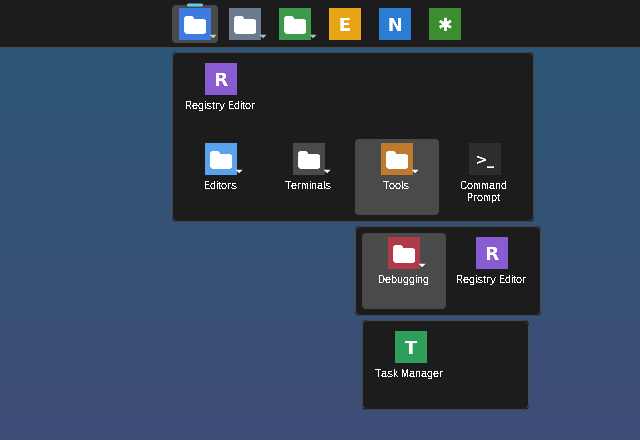
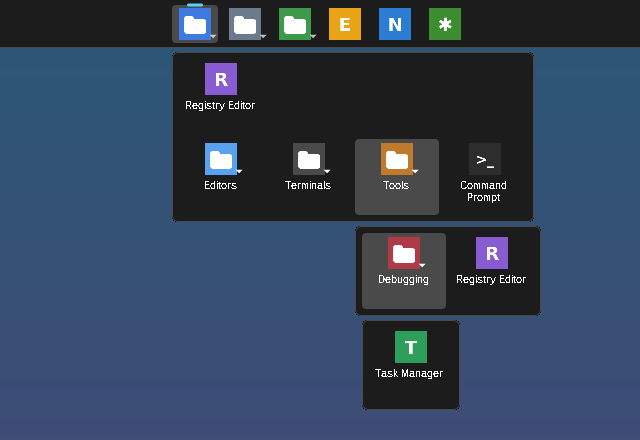
Vertical flyout strips for side bars, horizontal for top and bottom
A category flyout now runs the same way as its bar: from a top or bottom
bar it is a horizontal strip (App tiles per row, wrapping into rows);
from a left or right bar it is a vertical strip, one column top to
bottom, wrapping into another column only when it would be taller than
the screen. Further levels open beside it, lined up with their tile, so
the pointer goes straight across into them. Subcategories still sit
nearest where their flyouts open. README, screenshots and the edges GIF
updated.

Claude-Session: https://claude.ai/code/session_01GLkhGjuGndshja5QFx3dbt

Changed region(s): [[0.7188, 0.7091, 0.8438, 0.9455]]

diff --git a/src/win/flyout.rs b/src/win/flyout.rs
@@ -19,7 +19,7 @@ use super::canvas::{self, Canvas};
 use super::strip;
 use super::ui::{self, scale, wide};
 use crate::appearance::{Appearance, Colors};
-use crate::striplayout::{self, Edge, Hit};
+use crate::striplayout::{self, Hit};
 use resvg::tiny_skia::Pixmap;
 use std::cell::RefCell;
 use std::collections::HashMap;
@@ -354,6 +354,12 @@ fn rebuild(idx: usize) {
             rows: s.catalog.apps.iter().map(|a| (a.id.clone(), a.name.clone())).collect(),
         }),
     });
+    let mon = unsafe {
+        let m = MonitorFromPoint(POINT { x: anchor_rc.left, y: anchor_rc.top }, MONITOR_DEFAULTTONEAREST);
+        let mut mi = MONITORINFO { cbSize: std::mem::size_of::<MONITORINFO>() as u32, ..Default::default() };
+        let _ = GetMonitorInfoW(m, &mut mi);
+        mi.rcMonitor
+    };
     let Some(content) = content else {
         if idx == 0 {
             close()
@@ -377,24 +383,30 @@ fn rebuild(idx: usize) {
             let tile = (s(84), s(76));
             let tm = s(2);
             let cols = (look.flyout_columns as usize).max(1);
-            // Subcategories first, so they sit in the top row, nearest to
-            // the flyouts they open above.
+            // Subcategories first, so they sit nearest the flyouts they open.
             let items: Vec<(Elem, String, String)> = content
                 .subs
                 .iter()
                 .map(|(id, name)| (Elem::Sub(*id), name.clone(), format!("cat:{id}")))
                 .chain(content.tiles.iter().map(|(id, name)| (Elem::Tile(id.clone()), name.clone(), id.clone())))
                 .collect();
-            let tiles_w = cols.min(items.len().max(1)) as i32 * (tile.0 + 2 * tm);
-            inner_w = tiles_w.max(canvas::measure("No apps in this category", font).0 + s(16));
+            // A horizontal strip for a top or bottom bar, a vertical one for
+            // a side bar (see `flyout_cells`).
             let n = items.len();
-            // The subcategories (first) sit in the row nearest where their
-            // flyouts open: the top row for a bottom strip, the bottom row
-            // (rows flipped) for a top strip. Side strips keep reading order.
-            let rows = n.div_ceil(cols);
-            let flip = strip::edge() == Edge::Top;
-            for ((col, row), (elem, text, icon)) in striplayout::grid(n, cols).into_iter().zip(items) {
-                let row = if flip { rows - 1 - row } else { row };
+            let edge = strip::edge();
+            // A side bar's flyout is a single column, wrapping only once it
+            // would be taller than the screen.
+            let per_line = if edge.vertical() {
+                (((mon.bottom - mon.top) - 2 * pad) / (tile.1 + 2 * tm)).max(1) as usize
+            } else {
+                cols
+            };
+            let cells = striplayout::flyout_cells(n, per_line, edge);
+            let used_cols = cells.iter().map(|c| c.0 + 1).max().unwrap_or(1);
+            let used_rows = cells.iter().map(|c| c.1 + 1).max().unwrap_or(0);
+            let tiles_w = used_cols as i32 * (tile.0 + 2 * tm);
+            inner_w = if content.empty { canvas::measure("No apps in this category", font).0 + s(16) } else { tiles_w };
+            for ((col, row), (elem, text, icon)) in cells.into_iter().zip(items) {
                 let left = pad + col as i32 * (tile.0 + 2 * tm) + tm;
                 let top = y + row as i32 * (tile.1 + 2 * tm) + tm;
                 elems.push(Placed {
@@ -404,9 +416,7 @@ fn rebuild(idx: usize) {
                     icon: Some(icon),
                 });
             }
-            if n > 0 {
-                y += n.div_ceil(cols) as i32 * (tile.1 + 2 * tm);
-            }
+            y += used_rows as i32 * (tile.1 + 2 * tm);
             if content.empty {
                 elems.push(Placed {
                     rect: RECT { left: pad + s(4), top: y + s(4), right: pad + inner_w, bottom: y + s(24) },
@@ -446,12 +456,6 @@ fn rebuild(idx: usize) {
 
     // Away from the strip's edge (above a bottom strip, right of a left one…),
     // kept on the monitor.
-    let mon = unsafe {
-        let m = MonitorFromPoint(POINT { x: anchor_rc.left, y: anchor_rc.top }, MONITOR_DEFAULTTONEAREST);
-        let mut mi = MONITORINFO { cbSize: std::mem::size_of::<MONITORINFO>() as u32, ..Default::default() };
-        let _ = GetMonitorInfoW(m, &mut mi);
-        mi.rcMonitor
-    };
     let (x, y) = striplayout::flyout_origin(
         strip::edge(),
         (anchor_rc.left, anchor_rc.top, anchor_rc.right, anchor_rc.bottom),

diff --git a/src/striplayout.rs b/src/striplayout.rs
@@ -113,18 +113,34 @@ pub fn hit(layout: &BarLayout, x: i32) -> Option<Hit> {
     layout.items.iter().position(|s| s.contains(x)).map(Hit::Item)
 }
 
-/// Rows of tiles in a flyout: `count` tiles, at most `cols` per row. Returns
-/// (column, row) for each tile, reading left to right.
-pub fn grid(count: usize, cols: usize) -> Vec<(usize, usize)> {
-    let cols = cols.max(1);
-    (0..count).map(|i| (i % cols, i / cols)).collect()
-}
-
 /// Where an item dragged to bar position `x` lands: the slot nearest the
 /// pointer (by centre). The other items fill the remaining slots in order.
 pub fn drop_index(items: &[Slot], x: i32) -> usize {
     let centre = |s: &Slot| s.x + s.w / 2;
     items.windows(2).filter(|w| x >= (centre(&w[0]) + centre(&w[1])) / 2).count()
+}
+
+/// Where each of `n` tiles goes in a category flyout of a bar on `edge`, as
+/// (column, row). The flyout runs the same way as its bar: tiles left to
+/// right for a top or bottom bar, top to bottom for a side bar, wrapping
+/// after `per_line`. The first tiles (the subcategories) end up on the side
+/// nearest where their own flyouts open: the top row above a bottom bar, the
+/// bottom row below a top bar, the right column beside a left bar, the left
+/// column beside a right bar.
+pub fn flyout_cells(n: usize, per_line: usize, edge: Edge) -> Vec<(usize, usize)> {
+    let per = per_line.max(1);
+    let lines = n.div_ceil(per);
+    (0..n)
+        .map(|i| {
+            let (line, pos) = (i / per, i % per);
+            match edge {
+                Edge::Bottom => (pos, line),
+                Edge::Top => (pos, lines - 1 - line),
+                Edge::Left => (lines - 1 - line, pos),
+                Edge::Right => (line, pos),
+            }
+        })
+        .collect()
 }
 
 /// A screen edge the strip can dock against.
@@ -237,6 +253,19 @@ mod tests {
     }
 
     #[test]
+    fn flyouts_run_the_way_their_bar_does() {
+        // Bottom bar: a horizontal strip, wrapping upwards (first row on top).
+        assert_eq!(flyout_cells(5, 4, Edge::Bottom), vec![(0, 0), (1, 0), (2, 0), (3, 0), (0, 1)]);
+        // Top bar: the first row at the bottom, nearest the next level.
+        assert_eq!(flyout_cells(5, 4, Edge::Top), vec![(0, 1), (1, 1), (2, 1), (3, 1), (0, 0)]);
+        // Side bars: a vertical strip, wrapping into further columns.
+        assert_eq!(flyout_cells(3, 4, Edge::Right), vec![(0, 0), (0, 1), (0, 2)]);
+        assert_eq!(flyout_cells(5, 4, Edge::Right), vec![(0, 0), (0, 1), (0, 2), (0, 3), (1, 0)]);
+        assert_eq!(flyout_cells(5, 4, Edge::Left), vec![(1, 0), (1, 1), (1, 2), (1, 3), (0, 0)]);
+        assert!(flyout_cells(0, 4, Edge::Left).is_empty());
+    }
+
+    #[test]
     fn edges() {
         let screen = (0, 0, 1600, 900);
         assert_eq!(edge_for_point(screen, 800, 880), Edge::Bottom);
@@ -276,11 +305,5 @@ mod tests {
         assert_eq!(drop_index(items, items[2].x + items[2].w / 2), 2);
         assert_eq!(drop_index(items, items[3].right() + 300), 3);
         assert_eq!(drop_index(&[], 50), 0);
-    }
-
-    #[test]
-    fn flyout_grid() {
-        assert_eq!(grid(5, 4), vec![(0, 0), (1, 0), (2, 0), (3, 0), (0, 1)]);
-        assert_eq!(grid(2, 0), vec![(0, 0), (0, 1)]);
     }
 }

diff --git a/README.md b/README.md
@@ -42,14 +42,15 @@ match the original .NET version.
 ![The bar with All, category and app icons, Link and the settings gear](screenshots/strip.png)
 
 **Any edge**: drag the bar by an empty spot to the left, right, top or bottom.
-Its flyouts open towards the middle of the screen.
+Its flyouts open towards the middle of the screen, as horizontal strips from a
+top or bottom bar and vertical strips from a side bar.
 
 ![Dragging the bar to the left, right, top and back to the bottom edge, with flyouts opening away from each](screenshots/edges.gif)
 
-| Left edge: flyouts open to the right | Right edge: flyouts open to the left |
+| Left edge: vertical flyouts open to the right | Right edge: vertical flyouts open to the left |
 |---|---|
-| ![An upright bar on the left with three flyout levels opening to the right](screenshots/edge-left.png) | ![An upright bar on the right with two flyout levels opening to the left](screenshots/edge-right.png) |
-| **Top edge: flyouts open downwards** | |
+| ![An upright bar on the left with three vertical flyout strips opening to the right](screenshots/edge-left.png) | ![An upright bar on the right with three vertical flyout strips opening to the left](screenshots/edge-right.png) |
+| **Top edge: horizontal flyouts open downwards** | |
 | ![A bar at the top with three flyout levels opening downwards](screenshots/edge-top.png) | |
 
 | Hover a category: subcategories and apps as tiles | Hover a subcategory: its flyout floats above |
@@ -99,13 +100,17 @@ original FlexTaskbar:
   it, on the screen side: above a bottom bar, below a top bar, to the right of
   a left bar and to the left of a right bar:
   - its **subcategories and apps as tiles**, each a large icon with the name
-    underneath, 4 per row by default. Subcategories come first and are marked
-    with ▾, like categories on the bar;
+    underneath. Subcategories come first and are marked with ▾, like
+    categories on the bar. The flyout runs the same way as the bar: on a top
+    or bottom bar it is a **horizontal strip** (4 tiles per row by default,
+    wrapping into more rows); on a left or right bar it is a **vertical
+    strip**, one column top to bottom, wrapping into another column only if
+    it would be taller than the screen;
   - resting the pointer on a subcategory opens **its flyout beyond this one**
     (further from the bar, lined up with the tile), and so on at any depth.
     Moving to another subcategory switches it; resting on an app tile closes
-    it. On a top bar the subcategories sit in the bottom row, nearest where
-    their flyouts open;
+    it. Subcategories always sit nearest where their flyouts open (the
+    bottom row on a top bar, for instance);
   - *No apps in this category* when it's empty. Flyouts only launch apps;
     categories are managed in the Manage window (⚙ on the bar, or
     right-click a category and pick *Manage categories…*).
@@ -153,7 +158,7 @@ Every change shows on the bar straight away:
 | Gap from screen edge | 0–24 | 0 (docked flush) |
 | Bar thickness | 32–96 (its height, or its width on a side edge) | 48 |
 | **Category flyouts** | | |
-| App tiles per row | 1–12 | 4 |
+| App tiles per row | 1–12 (top and bottom bars; on a side bar a flyout is one column) | 4 |
 | Border colour | Any colour | Same as the bar |
 | Border width | 0–6 | 1 |
 | Corner radius | 0–24 | 6 |
@@ -359,8 +364,9 @@ The 39 unit tests cover:
 - search ranking
 - bar layout (the three zones, centring, overflow, the fitted dock, hit
   testing, where a dragged icon lands), which edge a dragged bar docks to,
-  where flyouts open for each edge (and staying on screen), flyout tile
-  grids, pinning, and the
+  where flyouts open for each edge (and staying on screen), how flyout tiles
+  run for each edge (rows for top and bottom bars, columns for side bars),
+  pinning, and the
   bar order (mixing categories and apps, moves, new and removed buttons)
 - appearance settings: the default colours matching the original, the three
   themes, readable text on a custom background, opacity, the flyout border
@@ -374,6 +380,7 @@ The 39 unit tests cover:
     last; switching to another subcategory; an app tile closing the level above
   - the bar on each edge (bottom, top, left, right), set from *Position* and by
     dragging the bar; flyouts and three-level cascades opening the right way
+    (horizontal strips from top and bottom bars, vertical ones from side bars)
     on each; dragging icons along an upright bar; the right-click menu opening
     towards the screen
   - launching from a tile on the third level, sliding between categories, launching a pinned app
